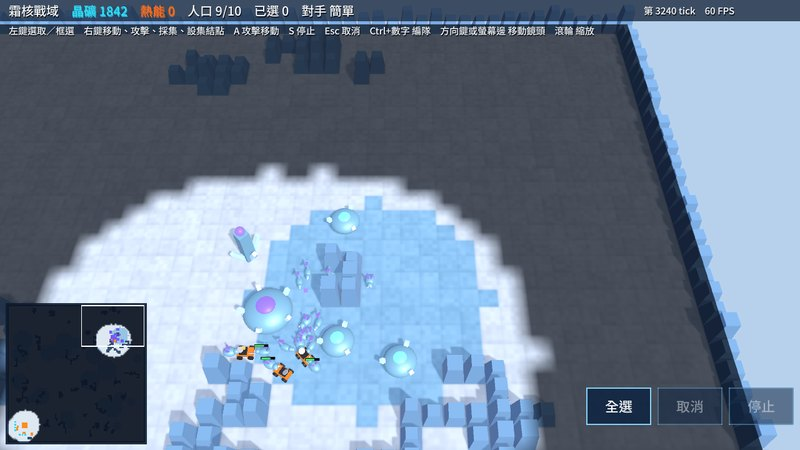
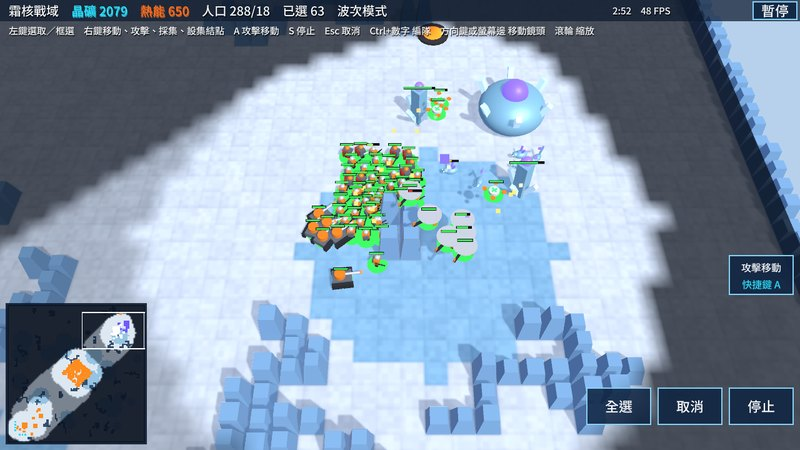
霜核戰域第一版完成（音效、存檔、戰績）

diff --git a/index.html b/index.html
@@ -131,9 +131,9 @@
     <div class="thumb"><img src="img/frostcore.jpg" alt="霜核戰域遊戲畫面：穿過戰爭迷霧偵察到電腦對手自己蓋出來的冰裔基地，一顆顆發著紫光和藍光的冰殼建築，旁邊有霜爪獸和冰工" loading="lazy"><span class="badge">NEW</span></div>
     <div class="body">
       <div class="name"><h2>霜核戰域</h2><span>Frostcore</span></div>
-      <p class="desc">原創 3D 科幻即時戰略遊戲（Unity 製作，開發中）。冰封行星「霜核」的地心有一顆還在發熱的核心，鑽井公司和冰裔在冰原上爭奪熱泉與晶礦。目前做到第五階段：開場可以選簡單、普通、困難三種電腦對手，冰裔會和你一樣採礦、蓋基地、研發科技、開分礦，兵力夠了就來攻；也可以選一波一波固定來襲的波次模式。你這邊有八種建築、七種單位（含會飛的砲艇和醫療無人機）和六項科技，帶兵穿過戰爭迷霧拆光對方建築就獲勝。音效和存檔還沒做，之後陸續加上。</p>
-      <div class="chips"><span class="chip">即時戰略</span><span class="chip">3D</span><span class="chip">開發中</span><span class="chip">電腦對手三種難度</span><span class="chip">採集建造</span><span class="chip">7 種單位</span><span class="chip">6 項科技</span><span class="chip">空中單位</span><span class="chip">戰爭迷霧</span><span class="chip">框選編隊</span><span class="chip">手機平板可玩</span></div>
-      <div class="keys">電腦：左鍵選取／框選・右鍵移動、攻擊、採集、設集結點・A 攻擊移動・T 興奮劑・選鑽探工按建築按鈕再點位置・S 停止・Esc 取消・Ctrl+數字 編隊・方向鍵或滑鼠推到螢幕邊移動鏡頭・滾輪縮放　手機平板：點單位或建築選取・拖曳框選・點地面或敵人下指令・「攻擊移動」按鈕・兩指拖曳移動鏡頭・兩指開合縮放（第一次載入約 20 MB）</div>
+      <p class="desc">原創 3D 科幻即時戰略遊戲（Unity 製作）。冰封行星「霜核」的地心有一顆還在發熱的核心，鑽井公司和冰裔在冰原上爭奪熱泉與晶礦。開場選簡單、普通、困難三種電腦對手，冰裔會和你一樣採礦、蓋基地、研發科技、開分礦，兵力夠了就來攻；也可以選一波一波固定來襲的波次模式。你這邊有八種建築、七種單位（含會飛的砲艇和醫療無人機）和六項科技，帶兵穿過戰爭迷霧拆光對方建築就獲勝。每一局地圖都不同，有音效配樂、暫停、三個存檔欄位加自動存檔，還會記下每一局的戰績與分數。</p>
+      <div class="chips"><span class="chip">即時戰略</span><span class="chip">3D</span><span class="chip">存檔與戰績</span><span class="chip">電腦對手三種難度</span><span class="chip">採集建造</span><span class="chip">7 種單位</span><span class="chip">6 項科技</span><span class="chip">空中單位</span><span class="chip">戰爭迷霧</span><span class="chip">框選編隊</span><span class="chip">手機平板可玩</span></div>
+      <div class="keys">電腦：左鍵選取／框選・右鍵移動、攻擊、採集、設集結點・A 攻擊移動・T 興奮劑・選鑽探工按建築按鈕再點位置・S 停止・P 暫停存檔・M 靜音・Esc 取消・Ctrl+數字 編隊・方向鍵或滑鼠推到螢幕邊移動鏡頭・滾輪縮放　手機平板：點單位或建築選取・拖曳框選・點地面或敵人下指令・「攻擊移動」按鈕・兩指拖曳移動鏡頭・兩指開合縮放（第一次載入約 20 MB）</div>
       <a class="play" href="https://kevinchang0531.github.io/frostcore/">開始玩 ▶</a>
     </div>
   </article>
